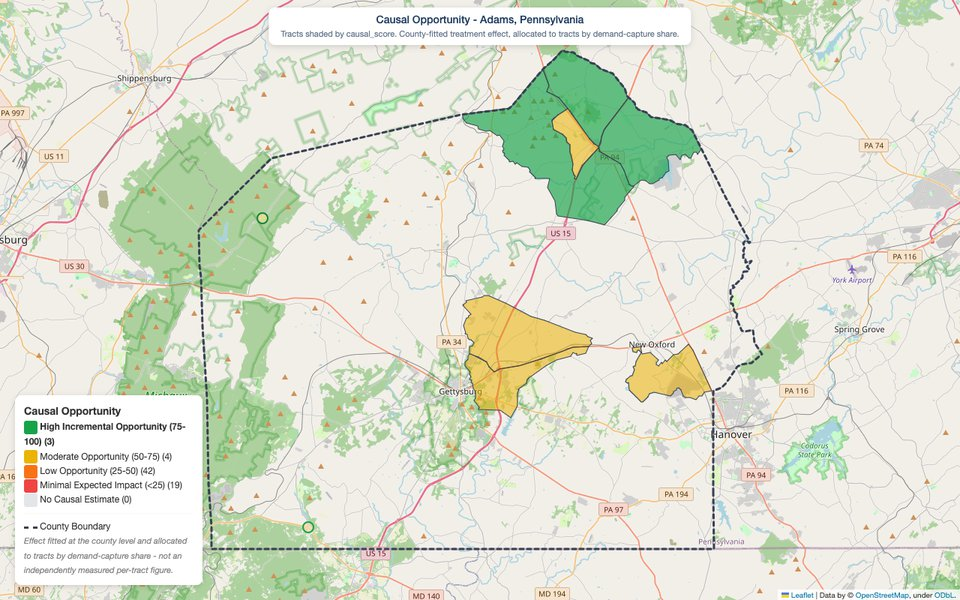
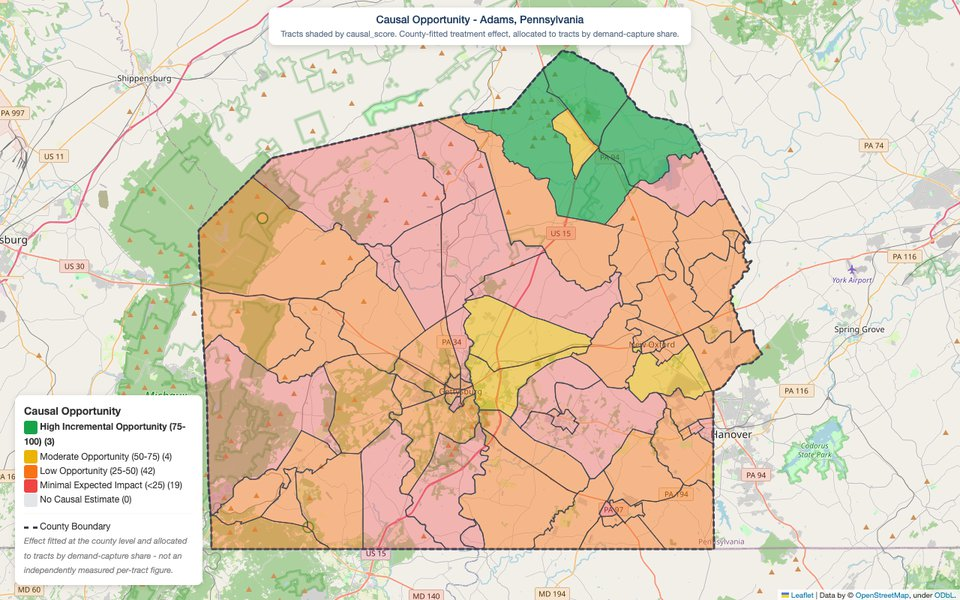
Show every tier on the causal impact sample map and note that report maps are interactive

diff --git a/index.html b/index.html
@@ -1542,7 +1542,7 @@
             </div>
             <img src="demo/01-location-ranking.jpg" alt="Map of Adams County, PA block groups shaded by opportunity zone, from recommended to high competition" loading="lazy" width="960" height="600">
             <div class="demo-stats"><div><strong>68</strong><span>block groups ranked</span></div><div><strong>79</strong><span>top site score (0-100)</span></div><div><strong>36</strong><span>block groups more than 3 km from a competitor</span></div><div><strong>6</strong><span>factors in every score: traffic, income, density, vehicles, growth, competition</span></div></div>
-            <p class="demo-dialog-note">Sample analysis of Adams County, Pennsylvania.</p>
+            <p class="demo-dialog-note">Sample analysis of Adams County, Pennsylvania. In the full report, maps are interactive: zoom in and hover over any area to see its numbers.</p>
         </dialog>
         <dialog class="demo-dialog" id="demo-02" aria-labelledby="demo-02-title">
             <div class="demo-dialog-head">
@@ -1551,7 +1551,7 @@
             </div>
             <img src="demo/02-customer-profile.jpg" alt="Map of Adams County, PA block groups shaded by share of residents with a 30+ minute commute" loading="lazy" width="960" height="600">
             <div class="demo-stats"><div><strong>106,115</strong><span>people in the county</span></div><div><strong>$84,092</strong><span>median household income</span></div><div><strong>46</strong><span>median age</span></div><div><strong>2.14</strong><span>vehicles per household</span></div><div><strong>85%</strong><span>drive alone to work</span></div><div><strong>30%</strong><span>commute 30+ minutes</span></div></div>
-            <p class="demo-dialog-note">Sample analysis of Adams County, Pennsylvania.</p>
+            <p class="demo-dialog-note">Sample analysis of Adams County, Pennsylvania. In the full report, maps are interactive: zoom in and hover over any area to see its numbers.</p>
         </dialog>
         <dialog class="demo-dialog" id="demo-03" aria-labelledby="demo-03-title">
             <div class="demo-dialog-head">
@@ -1560,7 +1560,7 @@
             </div>
             <img src="demo/03-traffic-demand.jpg" alt="Map of Adams County, PA block groups shaded by traffic on roads a customer can turn in from" loading="lazy" width="960" height="600">
             <div class="demo-stats"><div><strong>10,954</strong><span>road segments with federal counts</span></div><div><strong>391</strong><span>freeway segments excluded</span></div><div><strong>27,566</strong><span>vehicles a day on the busiest reachable road</span></div><div><strong>48 of 68</strong><span>block groups meet the 8,500 a day minimum</span></div></div>
-            <p class="demo-dialog-note">Sample analysis of Adams County, Pennsylvania.</p>
+            <p class="demo-dialog-note">Sample analysis of Adams County, Pennsylvania. In the full report, maps are interactive: zoom in and hover over any area to see its numbers.</p>
         </dialog>
         <dialog class="demo-dialog" id="demo-04" aria-labelledby="demo-04-title">
             <div class="demo-dialog-head">
@@ -1578,7 +1578,7 @@
             </div>
             <img src="demo/05-risk-assessment.jpg" alt="Map of Adams County, PA block groups ranked by simulated probability of loss" loading="lazy" width="960" height="600">
             <div class="demo-stats"><div><strong>5,000</strong><span>simulations per block group</span></div><div><strong>32%</strong><span>lowest chance of a loss</span></div><div><strong>55%</strong><span>median chance of a loss</span></div><div><strong>11 of 68</strong><span>block groups recommended, ranked by risk</span></div></div>
-            <p class="demo-dialog-note">Sample analysis of Adams County, Pennsylvania.</p>
+            <p class="demo-dialog-note">Sample analysis of Adams County, Pennsylvania. In the full report, maps are interactive: zoom in and hover over any area to see its numbers.</p>
         </dialog>
         <dialog class="demo-dialog" id="demo-06" aria-labelledby="demo-06-title">
             <div class="demo-dialog-head">
@@ -1587,7 +1587,7 @@
             </div>
             <img src="demo/06-competitive-mapping.jpg" alt="Map of existing car washes and candidate areas in Adams County, PA, with road traffic" loading="lazy" width="960" height="600">
             <div class="demo-stats"><div><strong>26</strong><span>car washes in the county</span></div><div><strong>3.2 km</strong><span>median distance to the nearest</span></div><div><strong>19</strong><span>block groups with little competitor overlap</span></div></div>
-            <p class="demo-dialog-note">Sample analysis of Adams County, Pennsylvania.</p>
+            <p class="demo-dialog-note">Sample analysis of Adams County, Pennsylvania. In the full report, maps are interactive: zoom in and hover over any area to see its numbers.</p>
         </dialog>
         <dialog class="demo-dialog" id="demo-07" aria-labelledby="demo-07-title">
             <div class="demo-dialog-head">
@@ -1596,7 +1596,7 @@
             </div>
             <img src="demo/07-causal-impact.jpg" alt="Map of Adams County, PA block groups shaded by estimated incremental revenue opportunity" loading="lazy" width="960" height="600">
             <div class="demo-stats"><div><strong>205</strong><span>comparison counties</span></div><div><strong>12</strong><span>years of history, 2012-2023</span></div><div><strong>95%</strong><span>likely range reported per site</span></div></div>
-            <p class="demo-dialog-note">Sample analysis of Adams County, Pennsylvania.</p>
+            <p class="demo-dialog-note">Sample analysis of Adams County, Pennsylvania. In the full report, maps are interactive: zoom in and hover over any area to see its numbers.</p>
         </dialog>
         <dialog class="demo-dialog" id="demo-08" aria-labelledby="demo-08-title">
             <div class="demo-dialog-head">
@@ -1605,7 +1605,7 @@
             </div>
             <img src="demo/08-zoning-feasibility.jpg" alt="Map of candidate sites in Adams County, PA colored by number of feasibility red flags" loading="lazy" width="960" height="600">
             <div class="demo-stats"><div><strong>13</strong><span>candidate sites screened</span></div><div><strong>5</strong><span>weak main-road access</span></div><div><strong>2</strong><span>steep land</span></div><div><strong>1</strong><span>flood zone</span></div><div><strong>1</strong><span>wetlands</span></div><div><strong>0</strong><span>fuel-tank releases</span></div></div>
-            <p class="demo-dialog-note">Sample analysis of Adams County, Pennsylvania.</p>
+            <p class="demo-dialog-note">Sample analysis of Adams County, Pennsylvania. In the full report, maps are interactive: zoom in and hover over any area to see its numbers.</p>
         </dialog>
 
 
